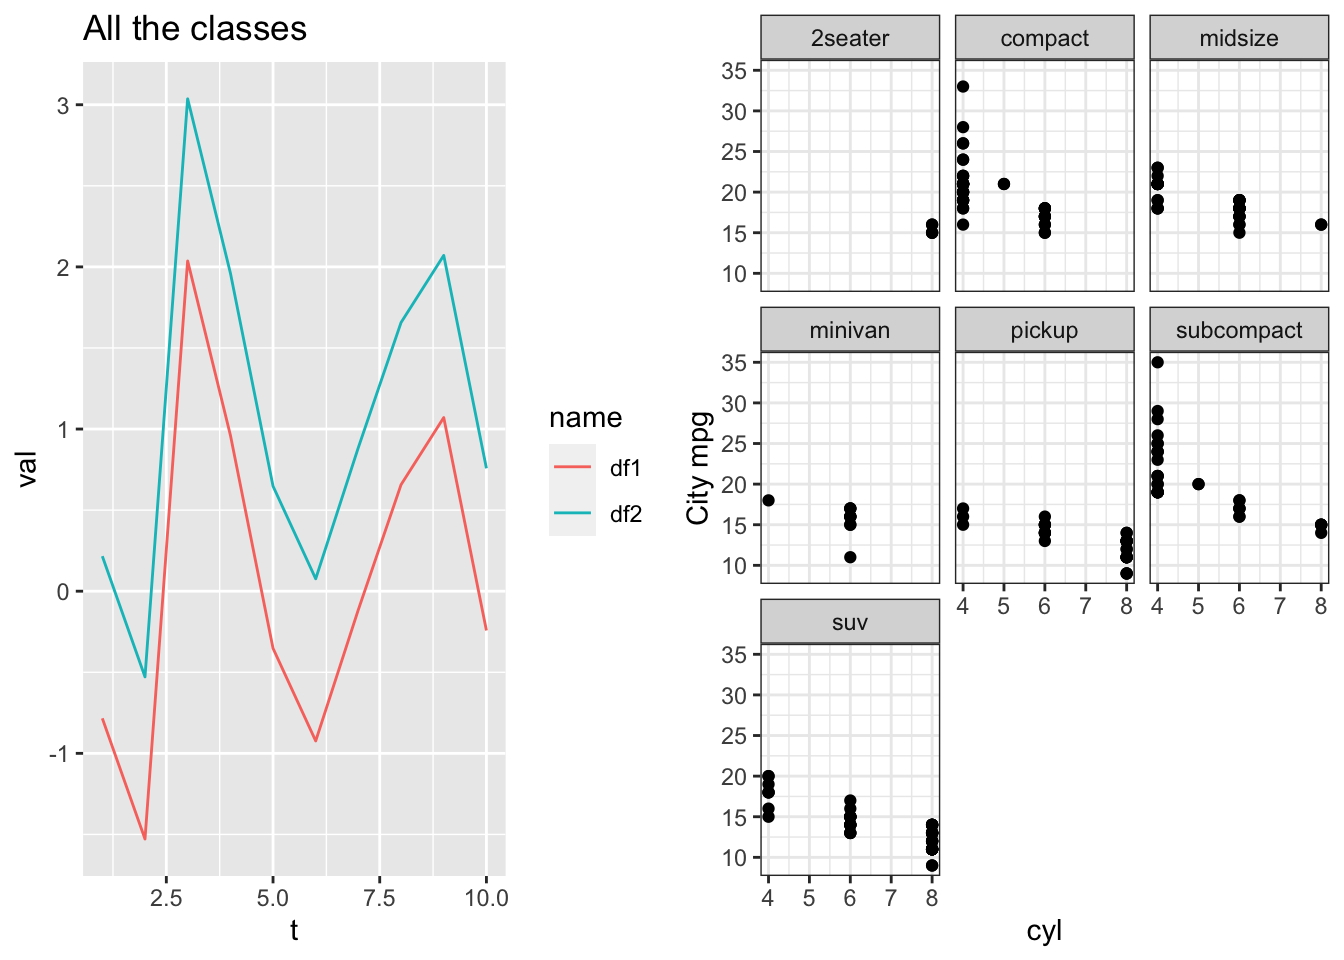
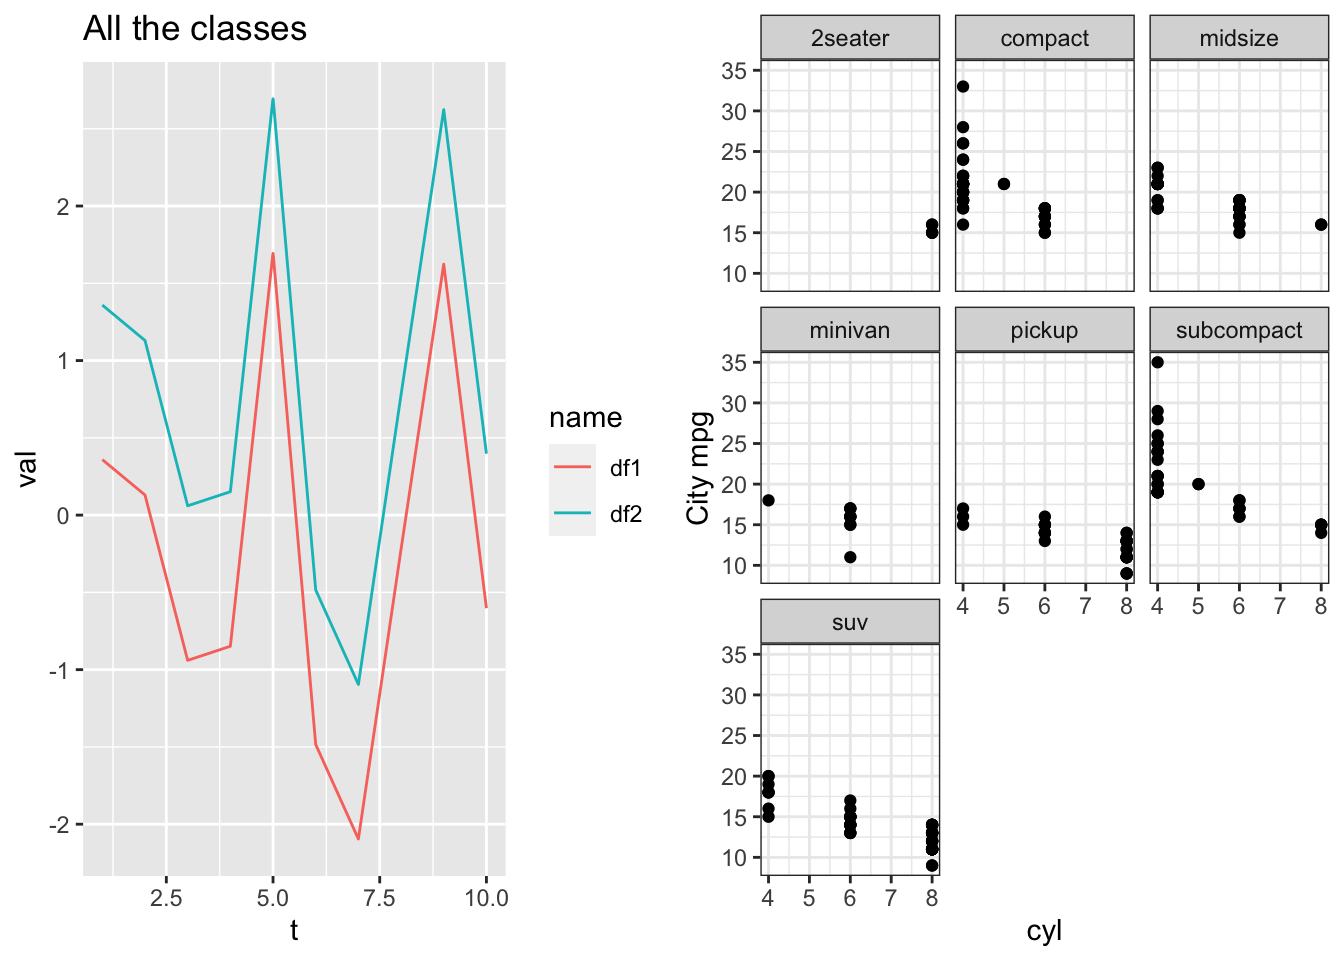
no git needed if you use github desktop

diff --git a/week9-data-wrangling.html b/week9-data-wrangling.html
@@ -554,9 +554,9 @@ a %&gt;% fun(a^2)</code></pre>
 <p>This kind of mistake is so easy to make. You want say, <code>rnorm(n=a)</code>, and accidentally write that in your pipe.</p>
 <pre class="r"><code>a &lt;- 3
 a %&gt;% rnorm(n=a)</code></pre>
-<pre><code>## [1] 3.705530 2.426452 1.416433</code></pre>
+<pre><code>## [1] 2.029148 0.903325 3.851952</code></pre>
 <pre class="r"><code>a %&gt;% rnorm()</code></pre>
-<pre><code>## [1] -0.9667773  0.4410533 -0.1664830</code></pre>
+<pre><code>## [1] -0.9141921  1.9386994 -0.3330177</code></pre>
 <p>The left flows into the first function spot, UNLESS you specified that and then it flows to the second or third or whatever is “open”.</p>
 <ul>
 <li><p>You can spend hours trying to solve your piping issue when you could immediately write down code using intermediate values.</p></li>
@@ -576,16 +576,16 @@ x %&gt;% transform(new = mpg^cyl) %&gt;% select(mpg, new)
 <pre class="r"><code>df &lt;- data.frame(mpg=runif(10, 10, 30))
 fun(df, cyl=0.5)</code></pre>
 <pre><code>##         mpg      new
-## 1  19.47981 4.413593
-## 2  22.78268 4.773120
-## 3  11.42950 3.380755
-## 4  25.66669 5.066231
-## 5  11.72482 3.424153
-## 6  28.66866 5.354312
-## 7  20.33823 4.509793
-## 8  23.31032 4.828076
-## 9  10.19454 3.192889
-## 10 15.95314 3.994138</code></pre>
+## 1  15.15951 3.893521
+## 2  26.76402 5.173396
+## 3  17.31408 4.161019
+## 4  17.62835 4.198613
+## 5  26.68647 5.165895
+## 6  13.99436 3.740903
+## 7  13.71048 3.702767
+## 8  15.80307 3.975307
+## 9  17.29457 4.158674
+## 10 15.84034 3.979992</code></pre>
 <p>Why, why? It didn’t complain but this is wrong!</p>
 <pre class="r"><code>fun(mtcars[1:5,], cyl=0.5)</code></pre>
 <pre><code>##                    mpg          new
@@ -776,16 +776,16 @@ fun(df, cyl=0.5)</code></pre>
 ## Volvo 142E          21.4   4  1  1    4    2</code></pre>
 <pre class="r"><code>df %&gt;% select(where(is.numeric))</code></pre>
 <pre><code>##         mpg
-## 1  19.47981
-## 2  22.78268
-## 3  11.42950
-## 4  25.66669
-## 5  11.72482
-## 6  28.66866
-## 7  20.33823
-## 8  23.31032
-## 9  10.19454
-## 10 15.95314</code></pre>
+## 1  15.15951
+## 2  26.76402
+## 3  17.31408
+## 4  17.62835
+## 5  26.68647
+## 6  13.99436
+## 7  13.71048
+## 8  15.80307
+## 9  17.29457
+## 10 15.84034</code></pre>
 </div>
 <div id="filter" class="section level3">
 <h3><code>filter()</code></h3>
@@ -923,26 +923,26 @@ df %&gt;% summarize_all(mean)</code></pre>
                   pop=paste0(rep(&quot;r&quot;,8),rep(1:2,each=4)),
                   Week1=rnorm(8), Week2=rnorm(8), Week3=rnorm(8), Week4=rnorm(8))
 head(df2)</code></pre>
-<pre><code>##   id pop       Week1       Week2       Week3      Week4
-## 1 s1  r1  0.36163790 -1.15161439  0.45700136 -0.5642810
-## 2 s2  r1 -1.35283905 -0.06930206 -0.47395272 -0.8239044
-## 3 s1  r1 -0.68847136 -1.08507244 -0.15416780 -2.4089877
-## 4 s2  r1 -2.13816456 -0.94182858  1.02325272 -1.4233351
-## 5 s1  r2  0.03542144  0.23931184 -0.02011335  0.2425279
-## 6 s2  r2  0.61496984  0.51560113  0.20341493  0.7254091</code></pre>
+<pre><code>##   id pop       Week1       Week2      Week3      Week4
+## 1 s1  r1 -0.83551483  1.43965277  1.6664183 -1.1372446
+## 2 s2  r1 -1.63488346  0.94898124 -0.6758438  0.4264061
+## 3 s1  r1 -0.04529889  0.57412587 -1.1827151 -0.2683061
+## 4 s2  r1 -0.19604077  0.01420002  1.2047887 -0.8967390
+## 5 s1  r2 -0.71715376 -1.28082258 -0.8366131 -0.1310937
+## 6 s2  r2 -0.78223915 -1.39280749  1.1294121 -1.2896710</code></pre>
 <p>The <code>group_by()</code> function allows you to do more complicated things. Take the mean by pop.</p>
 <pre class="r"><code>df2 %&gt;% group_by(pop) %&gt;% summarize_all(mean)</code></pre>
 <pre><code>## Warning in mean.default(id): argument is not numeric or logical: returning NA
 
 ## Warning in mean.default(id): argument is not numeric or logical: returning NA</code></pre>
 <pre><code>## # A tibble: 2 x 6
-##   pop      id  Week1  Week2  Week3  Week4
-## * &lt;chr&gt; &lt;dbl&gt;  &lt;dbl&gt;  &lt;dbl&gt;  &lt;dbl&gt;  &lt;dbl&gt;
-## 1 r1       NA -0.954 -0.812  0.213 -1.31 
-## 2 r2       NA  0.390  0.391 -0.264  0.240</code></pre>
+##   pop      id   Week1  Week2 Week3  Week4
+## * &lt;chr&gt; &lt;dbl&gt;   &lt;dbl&gt;  &lt;dbl&gt; &lt;dbl&gt;  &lt;dbl&gt;
+## 1 r1       NA -0.678   0.744 0.253 -0.469
+## 2 r2       NA  0.0901 -0.682 0.607 -0.676</code></pre>
 <pre class="r"><code>apply(df2[df2$pop==&quot;r1&quot;,3:6],2,mean)</code></pre>
 <pre><code>##      Week1      Week2      Week3      Week4 
-## -0.9544593 -0.8119544  0.2130334 -1.3051270</code></pre>
+## -0.6779345  0.7442400  0.2531620 -0.4689709</code></pre>
 <p>Take the mean for all weeks by pop and id. Notice that I have to specify columns for <code>summarize()</code>.</p>
 <pre class="r"><code>df2 %&gt;% 
   group_by(pop, id) %&gt;%
@@ -952,10 +952,10 @@ head(df2)</code></pre>
 ## # Groups:   pop [2]
 ##   pop   id       mean
 ##   &lt;chr&gt; &lt;chr&gt;   &lt;dbl&gt;
-## 1 r1    s1    -0.654 
-## 2 r1    s2    -0.775 
-## 3 r2    s1     0.306 
-## 4 r2    s2     0.0727</code></pre>
+## 1 r1    s1     0.0264
+## 2 r1    s2    -0.101 
+## 3 r2    s1    -0.480 
+## 4 r2    s2     0.149</code></pre>
 </div>
 <div id="combine-group-and-select" class="section level2">
 <h2>Combine group and select</h2>
@@ -965,10 +965,10 @@ head(df2)</code></pre>
   summarize_all(mean)</code></pre>
 <pre><code>## Adding missing grouping variables: `pop`</code></pre>
 <pre><code>## # A tibble: 2 x 5
-##   pop    Week1  Week2  Week3  Week4
-## * &lt;chr&gt;  &lt;dbl&gt;  &lt;dbl&gt;  &lt;dbl&gt;  &lt;dbl&gt;
-## 1 r1    -0.954 -0.812  0.213 -1.31 
-## 2 r2     0.390  0.391 -0.264  0.240</code></pre>
+##   pop     Week1  Week2 Week3  Week4
+## * &lt;chr&gt;   &lt;dbl&gt;  &lt;dbl&gt; &lt;dbl&gt;  &lt;dbl&gt;
+## 1 r1    -0.678   0.744 0.253 -0.469
+## 2 r2     0.0901 -0.682 0.607 -0.676</code></pre>
 <p>Select based on name.</p>
 <pre class="r"><code>df2 %&gt;% group_by(pop) %&gt;% 
   select(ends_with(&quot;2&quot;)) %&gt;% 
@@ -977,8 +977,8 @@ head(df2)</code></pre>
 <pre><code>## # A tibble: 2 x 2
 ##   pop    Week2
 ## * &lt;chr&gt;  &lt;dbl&gt;
-## 1 r1    -0.812
-## 2 r2     0.391</code></pre>
+## 1 r1     0.744
+## 2 r2    -0.682</code></pre>
 </div>
 <div id="mutate" class="section level2">
 <h2><code>mutate()</code></h2>

diff --git a/week4-packages.html b/week4-packages.html
@@ -784,8 +784,8 @@ for(i in 1:10000){ b=t(a)%*%a }
 Rprof()
 summaryRprof(tmp)$by.self</code></pre>
 <pre><code>##             self.time self.pct total.time total.pct
-## &quot;%*%&quot;            0.52    92.86       0.52     92.86
-## &quot;t.default&quot;      0.04     7.14       0.04      7.14</code></pre>
+## &quot;%*%&quot;            0.56    93.33       0.56     93.33
+## &quot;t.default&quot;      0.04     6.67       0.04      6.67</code></pre>
 <pre class="r"><code>Rprof(NULL) #stop profiling</code></pre>
 <p><strong>microbenchmark</strong></p>
 <p>This is a handy package for comparing speeds of code.</p>
@@ -795,7 +795,7 @@ res &lt;- microbenchmark(2 + 2, 2 + a, sum(2, a), sum(2, 2))
 ggplot2::autoplot(res)</code></pre>
 <pre><code>## Coordinate system already present. Adding new coordinate system, which will replace the existing one.</code></pre>
 <pre><code>## Warning: Transformation introduced infinite values in continuous y-axis</code></pre>
-<pre><code>## Warning: Removed 16 rows containing non-finite values (stat_ydensity).</code></pre>
+<pre><code>## Warning: Removed 9 rows containing non-finite values (stat_ydensity).</code></pre>
 <p><img src="week4-packages_files/figure-html/unnamed-chunk-3-1.png" width="672" /></p>
 <p>This shows an example of code using <a href="https://www.datacamp.com/community/tutorials/pipe-r-tutorial">piping</a> (<code>%&gt;%</code>) versus without. This is why I do not use piping. It is slow and I do simulations and I want fast code. Piping also makes it a nightmare for your functions to pass the package checks required to submit to CRAN, important to me as I develop packages for CRAN.</p>
 <pre class="r"><code>library(magrittr)

diff --git a/set-up.html b/set-up.html
@@ -527,7 +527,7 @@ div.tocify {
 <p>I normally work with Git from GitHub Desktop only. It tends not to have the authentication headaches that Git in RStudio has. However, for the class I am going to work with Git from RStudio but I will also show GitHub Desktop. GitHub Desktop doesn’t have the authentication headaches that Git in RStudio has.</p>
 <ol style="list-style-type: decimal">
 <li>Get a GitHub or GitLab account</li>
-<li>Install Git for your operating system</li>
+<li><del>Install Git for your operating system</del> Installing GitHub Desktop will also install Git now.</li>
 <li>Install GitHub Desktop</li>
 <li>Install R (if needed)</li>
 <li>Install RStudio (if needed)</li>

diff --git a/week2-coding.html b/week2-coding.html
@@ -842,7 +842,7 @@ T==TRUE</code></pre>
 rnorm(100) %&gt;%
   matrix(ncol = 2) %&gt;%
   apply(2,mean)</code></pre>
-<pre><code>## [1] -0.007146661 -0.198115778</code></pre>
+<pre><code>## [1] 0.07077902 0.16066537</code></pre>
 <ul>
 <li>Gravitate towards a standard coding style.</li>
 </ul>
